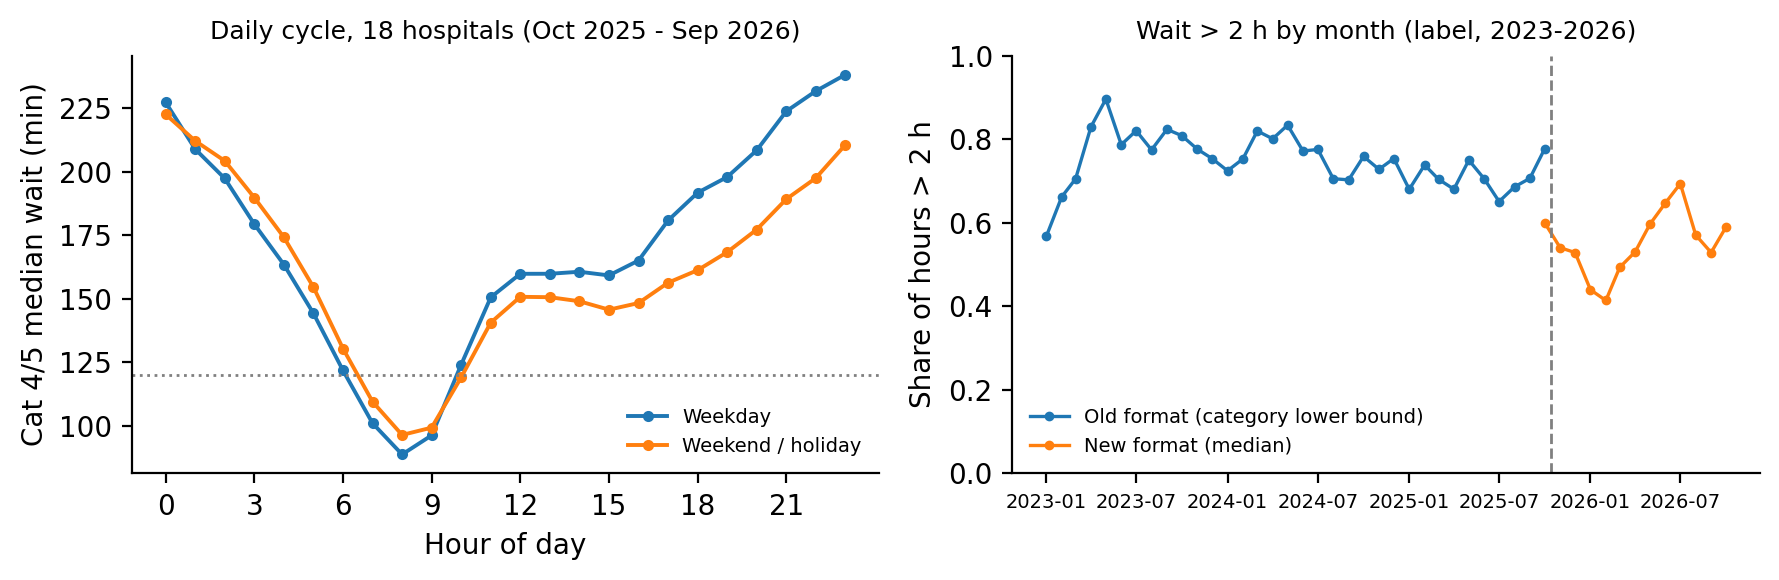
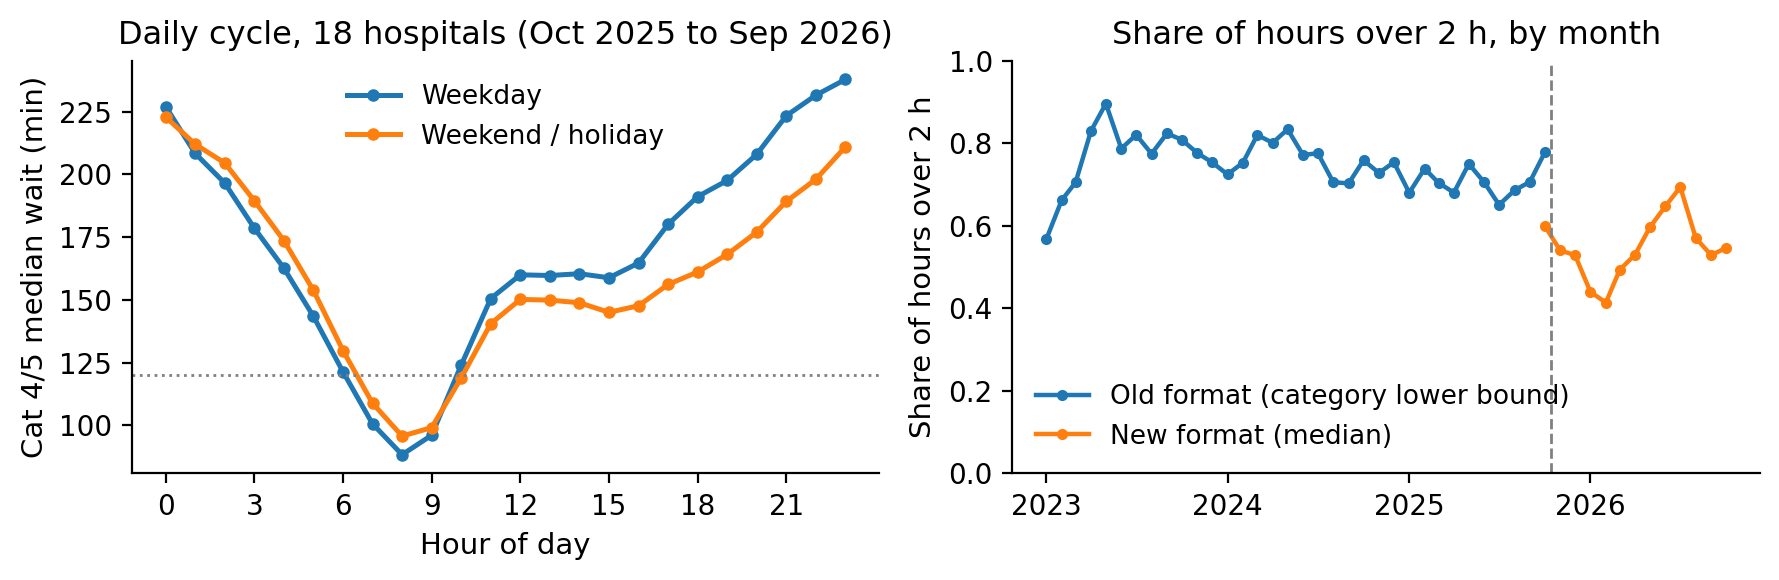
Enlarge the text in Figure 1

diff --git a/src/plot_checkpoint.py b/src/plot_checkpoint.py
@@ -8,6 +8,7 @@ Right: monthly share of hospital-hours with cat 4/5 wait > 2 h, both formats, wi
 import argparse
 import matplotlib
 matplotlib.use("Agg")
+import matplotlib.dates as mdates
 import matplotlib.pyplot as plt
 import pandas as pd
 
@@ -28,20 +29,22 @@ def main():
         [pd.Grouper(freq="MS"), "fmt"])["t45_over2h"].mean().unstack("fmt")
 
     fig, (ax1, ax2) = plt.subplots(1, 2, figsize=(9, 3.0), dpi=200)
-    by_hr.plot(ax=ax1, marker="o", ms=3, lw=1.4)
+    by_hr.plot(ax=ax1, marker="o", ms=3.5, lw=1.8)
     ax1.axhline(120, color="grey", ls=":", lw=1)
     ax1.set(xlabel="Hour of day", ylabel="Cat 4/5 median wait (min)", xticks=range(0, 24, 3),
-            title="Daily cycle, 18 hospitals (Oct 2025 - Sep 2026)")
-    ax1.legend(fontsize=7, frameon=False)
+            title="Daily cycle, 18 hospitals (Oct 2025 to Sep 2026)")
+    ax1.legend(fontsize=9.5, frameon=False)
     for f, lab in (("old", "Old format (category lower bound)"), ("new", "New format (median)")):
         if f in monthly:
-            ax2.plot(monthly.index, monthly[f], marker="o", ms=2.5, lw=1.2, label=lab)
+            ax2.plot(monthly.index, monthly[f], marker="o", ms=3, lw=1.6, label=lab)
     ax2.axvline(pd.Timestamp("2025-10-13"), color="grey", ls="--", lw=1)
-    ax2.set(ylabel="Share of hours > 2 h", ylim=(0, 1), title="Wait > 2 h by month (label, 2023-2026)")
-    ax2.legend(fontsize=7, frameon=False, loc="lower left")
-    ax2.tick_params(axis="x", labelsize=7)
+    ax2.set(ylabel="Share of hours over 2 h", ylim=(0, 1), title="Share of hours over 2 h, by month")
+    ax2.legend(fontsize=9.5, frameon=False, loc="lower left")
+    ax2.xaxis.set_major_locator(mdates.YearLocator()); ax2.xaxis.set_major_formatter(mdates.DateFormatter("%Y"))
     for ax in (ax1, ax2):
-        ax.title.set_fontsize(9)
+        ax.title.set_fontsize(11.5)
+        ax.tick_params(labelsize=10)
+        ax.xaxis.label.set_fontsize(10.5); ax.yaxis.label.set_fontsize(10.5)
         ax.spines[["top", "right"]].set_visible(False)
     fig.tight_layout()
     fig.savefig(a.out, bbox_inches="tight")
